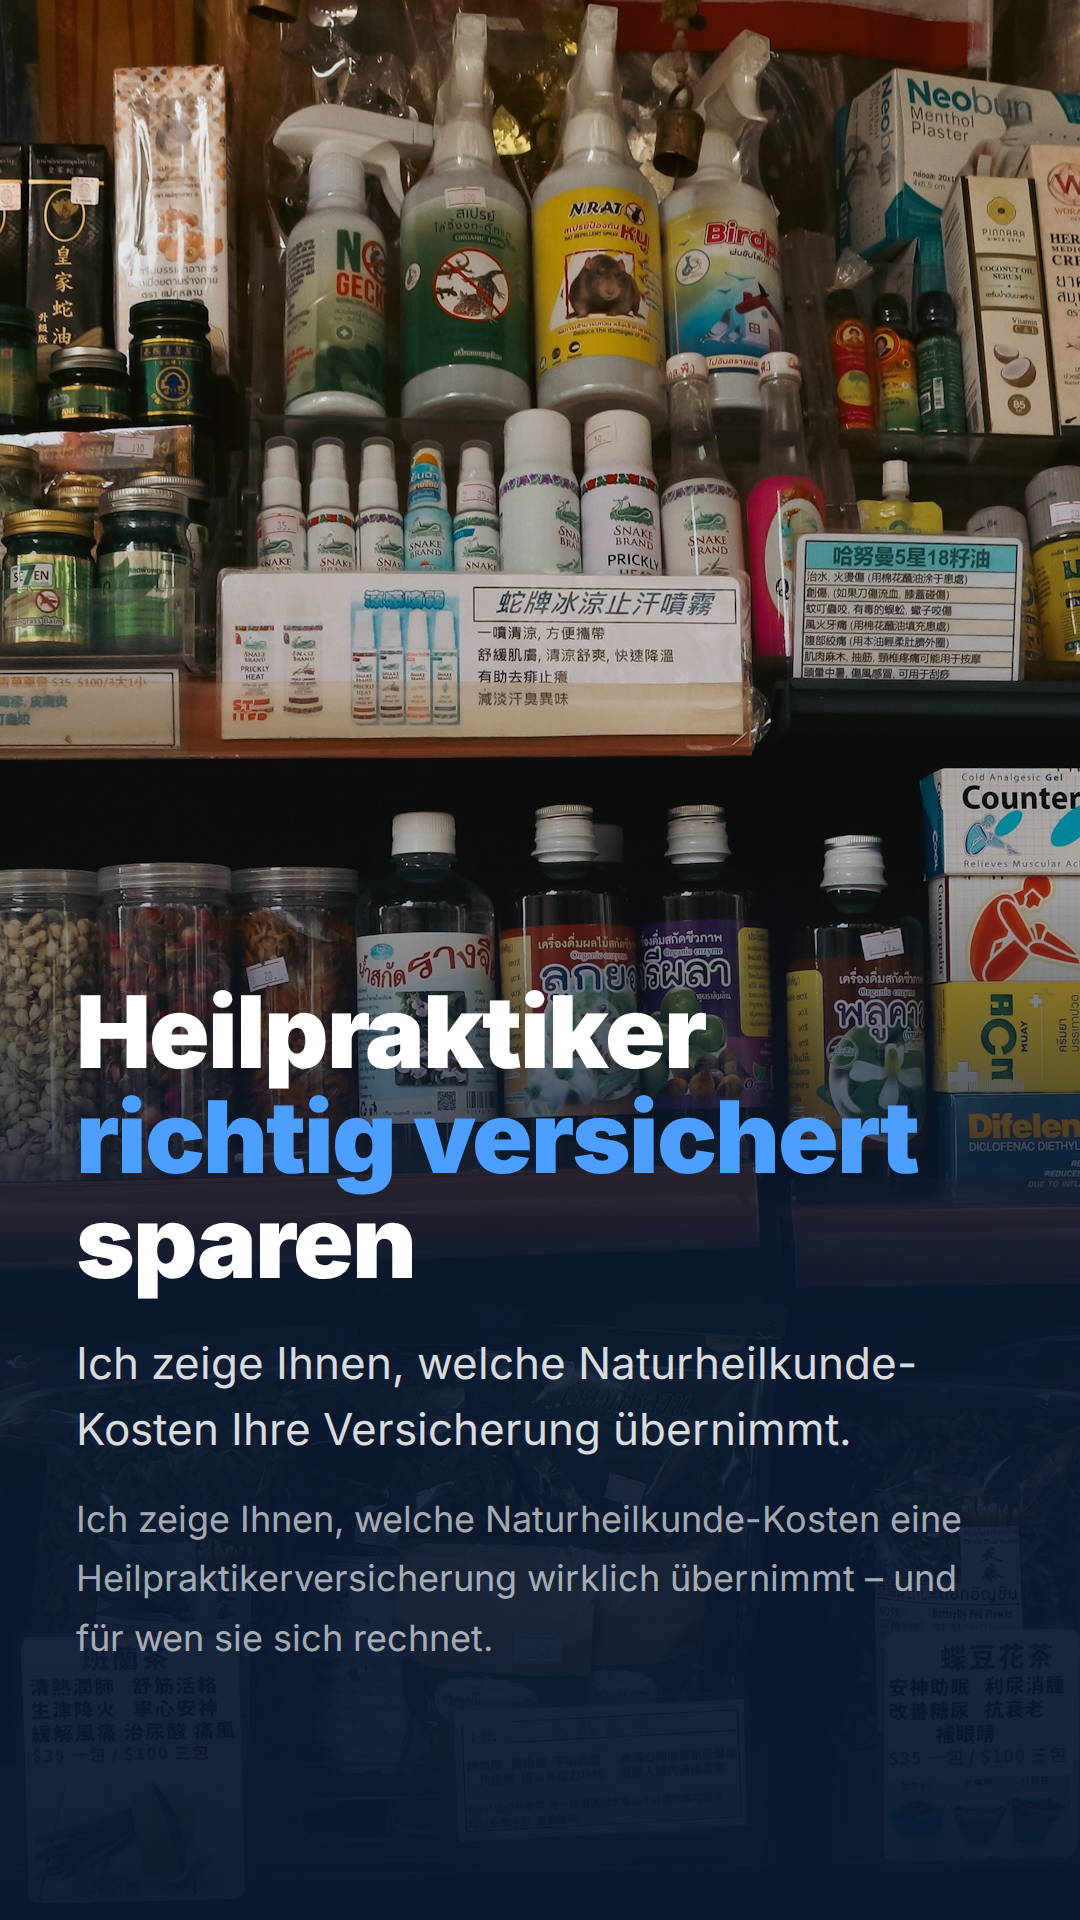
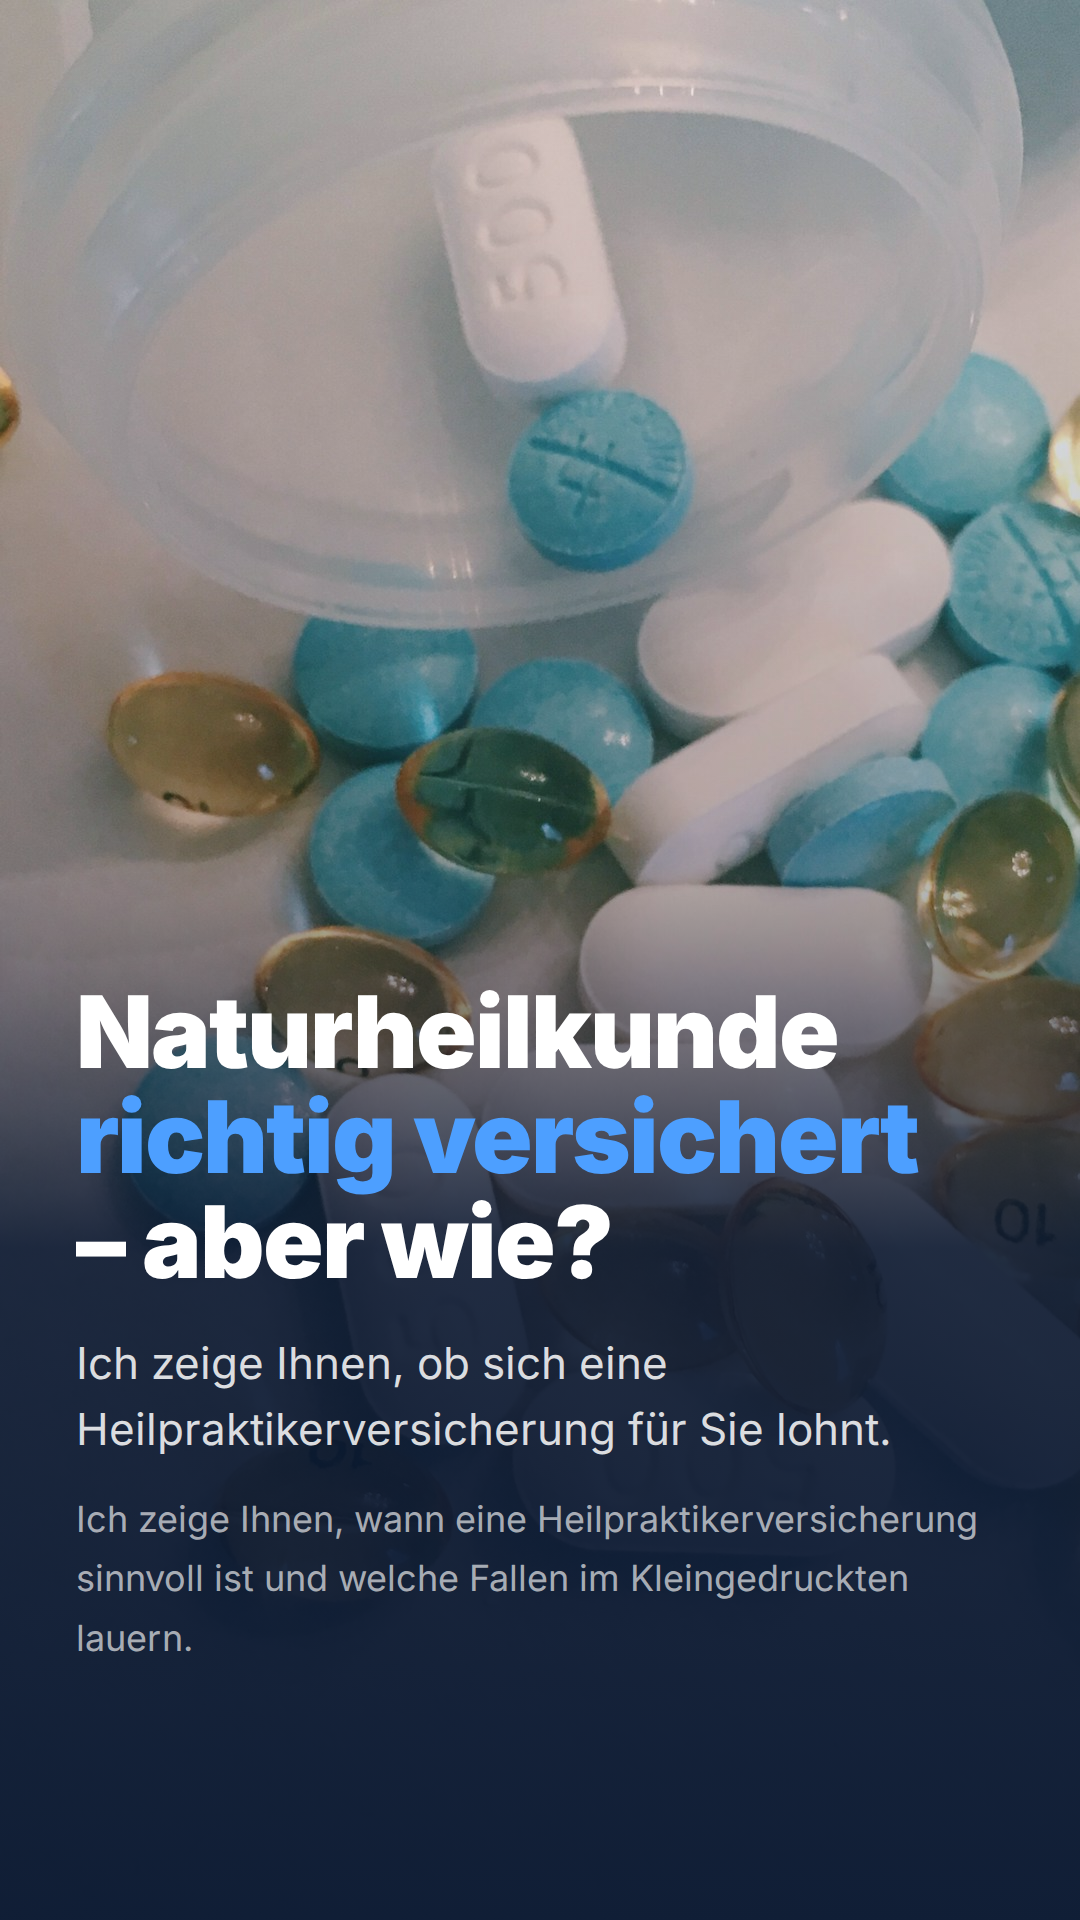
Blog-Entwurf: Heilpraktikerversicherung: Wann lohnt sie sich wirklich?

diff --git a/blog/posts/2026-05-27-heilpraktikerversicherung-naturheilkunde.html b/blog/posts/2026-05-27-heilpraktikerversicherung-naturheilkunde.html
@@ -3,13 +3,13 @@
 <head>
   <meta charset="UTF-8" />
   <meta name="viewport" content="width=device-width, initial-scale=1.0" />
-  <title>Heilpraktikerversicherung wissen worauf es ankommt | Daniel Eck - Versicherungsmakler</title>
-  <meta name="description" content="Heilpraktikerversicherung: Lohnt sich der Schutz? – Tipps und Informationen von Ihrem unabhängigen Versicherungsmakler Daniel Eck aus Schmalkalden." />
-  <meta property="og:title" content="Heilpraktikerversicherung wissen worauf es ankommt" />
-  <meta property="og:description" content="Heilpraktikerversicherung: Lohnt sich der Schutz? – Tipps von Versicherungsmakler Daniel Eck aus Schmalkalden." />
+  <title>Heilpraktikerversicherung: Wann lohnt sie sich wirklich? – Daniel Eck – Versicherungsmakler</title>
+  <meta name="description" content="Heilpraktikerversicherung: Wann lohnt sie sich wirklich? – Tipps und Informationen von Ihrem unabhängigen Versicherungsmakler Daniel Eck aus Schmalkalden." />
+  <meta property="og:title" content="Heilpraktikerversicherung: Wann lohnt sie sich wirklich?" />
+  <meta property="og:description" content="Heilpraktikerversicherung: Wann lohnt sie sich wirklich? – Tipps von Versicherungsmakler Daniel Eck aus Schmalkalden." />
   <meta property="og:type" content="article" />
   <meta property="og:url" content="https://kneipenterroristecky-cmd.github.io/Webseite_Eckversicherung/blog/posts/2026-05-27-heilpraktikerversicherung-naturheilkunde.html" />
-  <meta property="og:image" content="https://images.unsplash.com/photo-1775217164479-60f937a4b0a4?w=1200&h=630&fit=crop&auto=format" />
+  <meta property="og:image" content="https://images.unsplash.com/photo-1512069772995-ec65ed45afd6?w=1200&h=630&fit=crop&auto=format" />
   <meta property="og:image:width" content="1200" />
   <meta property="og:image:height" content="630" />
   <meta property="og:site_name" content="Daniel Eck – Versicherungsmakler" />
@@ -214,7 +214,7 @@
   <section class="page-hero">
     <div class="page-hero-container">
       <span class="page-hero-label">Blog</span>
-      <h1 class="page-hero-title">Heilpraktikerversicherung wissen worauf es ankommt</h1>
+      <h1 class="page-hero-title">Heilpraktikerversicherung: Wann lohnt sie sich wirklich?</h1>
       <p class="page-hero-meta"><i class="fas fa-calendar-alt" style="margin-right:6px"></i>27.05.2026 &nbsp;·&nbsp; Daniel Eck, Versicherungsmakler</p>
     </div>
   </section>
@@ -226,38 +226,36 @@
       <i class="fas fa-arrow-left"></i> Alle Beiträge
     </a>
 
-    <img src="https://images.unsplash.com/photo-1512069772995-ec65ed45afd6?w=1200&h=630&fit=crop&auto=format" alt="Heilpraktikerversicherung: Lohnt sich der Schutz?" class="blog-hero-img" />
+    <img src="https://images.unsplash.com/photo-1512069772995-ec65ed45afd6?w=1200&h=630&fit=crop&auto=format" alt="Heilpraktikerversicherung: Wann lohnt sie sich wirklich?" class="blog-hero-img" />
 
-    <p>Sie gehen zum Heilpraktiker, zur Osteopathin oder lassen sich akupunktieren – und dann kommt die Rechnung. Die gesetzliche Kasse zahlt meistens nichts oder nur einen kleinen Zuschuss. Mit einer Heilpraktikerversicherung sieht das anders aus.</p>
+    <p>Akupunktur, Osteopathie, Homöopathie – viele meiner Kunden schwören auf alternative Heilmethoden. Das Problem: Die gesetzliche Krankenkasse zahlt davon fast nichts. Eine Heilpraktikerversicherung kann diese Lücke schließen. Aber lohnt sich das wirklich?</p>
 
-<h2>Was die Versicherung wirklich übernimmt</h2>
+<h2>Was die Versicherung übernimmt – und was nicht</h2>
 
-<p>Eine Heilpraktikerversicherung erstattet Behandlungen nach dem Hufeland-Verzeichnis oder dem Gebührenverzeichnis für Heilpraktiker (GebüH). Das klingt technisch, bedeutet aber: Akupunktur, Homöopathie, Osteopathie, Chiropraktik und viele weitere Naturheilverfahren sind abgedeckt. Je nach Tarif werden 80 bis 100 Prozent der Kosten übernommen.</p>
+<p>Eine gute Heilpraktikerversicherung erstattet Behandlungen beim Heilpraktiker und oft auch naturheilkundliche Leistungen beim Arzt. Typisch sind Akupunktur, Chiropraktik, Osteopathie, Homöopathie und Pflanzenheilkunde. Die meisten Tarife orientieren sich am Gebührenverzeichnis für Heilpraktiker (GebüH) – das ist der Haken.</p>
 
-<p>Wichtig: Die meisten Tarife haben eine jährliche Obergrenze – oft zwischen 500 und 2.000 Euro. Wer regelmäßig zum Heilpraktiker geht, sollte hier nicht am falschen Ende sparen. Ich schaue mir an, wie oft Sie behandelt werden, und rechne durch, welches Limit für Sie Sinn macht.</p>
+<p>Denn dieses Verzeichnis stammt aus den 80er Jahren. Die dort genannten Sätze decken oft nur 50-70% der tatsächlichen Rechnung. Wenn ein Tarif nur den einfachen Satz erstattet, bleiben Sie auf einem ordentlichen Restbetrag sitzen. Ich achte deshalb immer darauf, dass mindestens der 2-fache Satz versichert ist.</p>
 
-<h2>Die versteckten Haken im Kleingedruckten</h2>
+<h2>Wartezeiten und Summenbegrenzungen</h2>
 
-<p>Viele Tarife haben Wartezeiten von drei bis acht Monaten. Heißt: Sie schließen ab, können aber erst später Leistungen abrufen. Manche Anbieter schließen außerdem bestimmte Behandlungen aus oder begrenzen die Erstattung pro Sitzung auf einen Höchstsatz.</p>
+<p>Fast alle Tarife haben Wartezeiten von drei bis acht Monaten. Wer also akut Beschwerden hat und schnell zum Heilpraktiker möchte, kommt zu spät. Außerdem gibt es meist ein jährliches Erstattungslimit – oft zwischen 500 und 2.000 Euro. Das klingt viel, ist bei regelmäßigen Behandlungen aber schnell aufgebraucht.</p>
 
-<p>Besonders ärgerlich: Einige Versicherer zahlen nur, wenn der Behandler ein zugelassener Heilpraktiker ist – nicht aber, wenn Ihr Arzt naturheilkundlich arbeitet. Das prüfe ich vorher, damit Sie später keine böse Überraschung erleben.</p>
+<p>Manche Versicherer staffeln die Erstattung in den ersten Jahren nach oben. Im ersten Jahr gibt es dann vielleicht nur 250 Euro, erst ab dem dritten Jahr den vollen Betrag. Diese Details übersieht man leicht im Kleingedruckten.</p>
 
-<h2>Für wen lohnt sich der Schutz?</h2>
+<h2>Für wen sich die Versicherung lohnt</h2>
 
-<p>Wenn Sie ohnehin zur Schulmedizin tendieren und Naturheilkunde nur im Notfall nutzen, ist die Versicherung oft überflüssig. Anders sieht es aus, wenn Sie regelmäßig osteopathische Behandlungen brauchen oder chronische Beschwerden alternativ behandeln lassen. Dann rechnet sich der Beitrag von meist 10 bis 30 Euro im Monat schnell.</p>
-
-<p>Auch für Familien mit Kindern kann es interessant sein – gerade bei wiederkehrenden Infekten oder wenn Sie auf sanfte Methoden setzen möchten.</p>
+<p>Wenn Sie regelmäßig zum Heilpraktiker gehen oder gehen möchten, rechnet sich ein guter Tarif schnell. Schon drei bis vier Osteopathie-Sitzungen pro Jahr können 300-400 Euro kosten. Bei einem Monatsbeitrag von 15-25 Euro haben Sie das locker wieder raus. Für Menschen, die nur einmal im Jahr eine Behandlung brauchen, lohnt es sich dagegen selten.</p>
 
 <ul>
-<li>Jahreshöchstgrenze prüfen – passt sie zu Ihrem tatsächlichen Bedarf?</li>
-<li>Wartezeiten beachten – nicht erst abschließen, wenn die Behandlung schon läuft</li>
-<li>Erstattungssätze vergleichen – 80 oder 100 Prozent macht einen Unterschied</li>
-<li>Leistungskatalog durchgehen – ist Ihre bevorzugte Behandlung dabei?</li>
-<li>Kombination mit Zahnzusatz prüfen – oft günstiger als Einzelverträge</li>
-<li>Gesundheitsfragen ehrlich beantworten – sonst zahlt der Versicherer später nicht</li>
+<li>Erstattung mindestens zum 2-fachen GebüH-Satz – sonst bleiben hohe Restkosten</li>
+<li>Jährliches Limit prüfen: Passt es zu Ihrem tatsächlichen Behandlungsbedarf?</li>
+<li>Wartezeiten beachten – bei akuten Beschwerden hilft die Versicherung nicht sofort</li>
+<li>Staffelung in den ersten Vertragsjahren checken</li>
+<li>Sind Ihre Wunschbehandlungen wirklich im Leistungskatalog enthalten?</li>
+<li>Kombination mit Zusatzversicherung für Brille oder Zahnersatz oft günstiger als Einzeltarife</li>
 </ul>
 
-<p>Ob sich eine Heilpraktikerversicherung für Sie rechnet, hängt von Ihren Gewohnheiten ab. Das schaue ich mir gerne gemeinsam mit Ihnen an.</p>
+<p>Ob sich eine Heilpraktikerversicherung für Sie rechnet, hängt stark von Ihren persönlichen Gewohnheiten ab. Das schaue ich gerne gemeinsam mit Ihnen durch.</p>
 
     <!-- Autor-Box -->
     <div class="blog-author-box">

diff --git a/social/latest-ig-heiko.html b/social/latest-ig-heiko.html
@@ -23,12 +23,12 @@
 </head>
 <body>
 <div class="wrap">
-  <img class="bg-img" src="https://images.unsplash.com/photo-1775217164479-60f937a4b0a4?w=1080&h=1920&fit=crop&auto=format" />
+  <img class="bg-img" src="https://images.unsplash.com/photo-1512069772995-ec65ed45afd6?w=1080&h=1920&fit=crop&crop=focalpoint&fp-x=0.5&fp-y=0.3&auto=format" />
   <div class="overlay"></div>
   <div class="content">
-    <h1>Heilpraktiker<br><span>richtig versichert</span><br>sparen</h1>
-    <p class="sub">Ich zeige Ihnen, welche Naturheilkunde-Kosten Ihre Versicherung übernimmt.</p>
-    <p class="body">Ich zeige Ihnen, welche Naturheilkunde-Kosten eine Heilpraktikerversicherung wirklich übernimmt – und für wen sie sich rechnet.</p>
+    <h1>Naturheilkunde<br><span>richtig versichert</span><br>– aber wie?</h1>
+    <p class="sub">Ich zeige Ihnen, ob sich eine Heilpraktikerversicherung für Sie lohnt.</p>
+    <p class="body">Ich zeige Ihnen, wann eine Heilpraktikerversicherung sinnvoll ist und welche Fallen im Kleingedruckten lauern.</p>
     <div class="cta"><span class="cta-arrow"></span> Schreiben Sie mir</div>
     <div class="divider"></div>
     <div class="branding">

diff --git a/social/latest-ig.html b/social/latest-ig.html
@@ -23,12 +23,12 @@
 </head>
 <body>
 <div class="wrap">
-  <img class="bg-img" src="https://images.unsplash.com/photo-1775217164479-60f937a4b0a4?w=1080&h=1920&fit=crop&auto=format" />
+  <img class="bg-img" src="https://images.unsplash.com/photo-1512069772995-ec65ed45afd6?w=1080&h=1920&fit=crop&crop=focalpoint&fp-x=0.5&fp-y=0.3&auto=format" />
   <div class="overlay"></div>
   <div class="content">
-    <h1>Heilpraktiker<br><span>richtig versichert</span><br>sparen</h1>
-    <p class="sub">Ich zeige Ihnen, welche Naturheilkunde-Kosten Ihre Versicherung übernimmt.</p>
-    <p class="body">Ich zeige Ihnen, welche Naturheilkunde-Kosten eine Heilpraktikerversicherung wirklich übernimmt – und für wen sie sich rechnet.</p>
+    <h1>Naturheilkunde<br><span>richtig versichert</span><br>– aber wie?</h1>
+    <p class="sub">Ich zeige Ihnen, ob sich eine Heilpraktikerversicherung für Sie lohnt.</p>
+    <p class="body">Ich zeige Ihnen, wann eine Heilpraktikerversicherung sinnvoll ist und welche Fallen im Kleingedruckten lauern.</p>
     <div class="cta"><span class="cta-arrow"></span> Schreiben Sie mir</div>
     <div class="divider"></div>
     <div class="branding">
